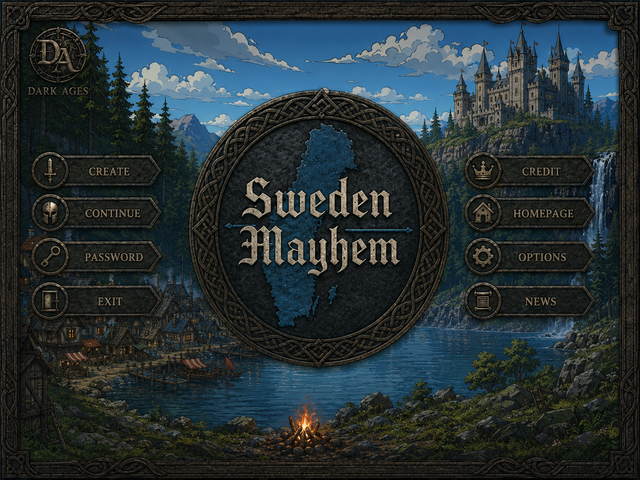
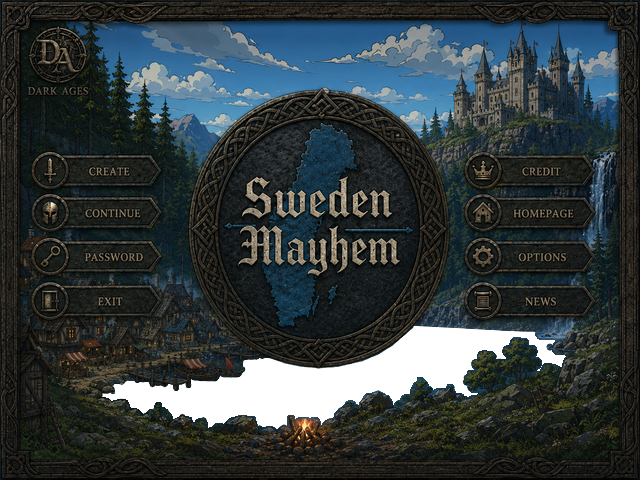
added: animated campfire and water to the main menu
added: animated water and campfire
added: ChaosGame.GameTime global for time access
added: UIAnimatedImage which that takes a texture of vertical animation frames and autoplays it

Changed region(s): [[0.1562, 0.6562, 0.875, 0.9062]]

diff --git a/Chaos.Client/Controls/Components/UIAnimatedImage.cs b/Chaos.Client/Controls/Components/UIAnimatedImage.cs
@@ -1,0 +1,67 @@
+#region
+using Microsoft.Xna.Framework;
+using Microsoft.Xna.Framework.Graphics;
+#endregion
+
+namespace Chaos.Client.Controls.Components;
+
+public class UIAnimatedImage : UIElement
+{
+    public Texture2D? Texture { get; set; }
+    public double FrameTime = 1000/24.0;
+    public int FrameHeight { get; set; }
+    public int FrameCount { get => Texture is null ? 1 : Texture.Height / FrameHeight; }
+
+    public static UIAnimatedImage CreateWithTexture(string name, Texture2D texture, int frameHeight)
+    {
+        return new UIAnimatedImage
+        {
+            Name = name,
+            X = 0,
+            Y = 0,
+            Texture = texture,
+            Width = texture?.Width ?? 0,
+            Height = texture?.Height ?? 0,
+            FrameHeight = frameHeight,
+        };
+
+    }
+
+    public override void Dispose()
+    {
+        Texture?.Dispose();
+        Texture = null;
+
+        base.Dispose();
+    }
+
+    public override void Draw(SpriteBatch spriteBatch)
+    {
+        if (!Visible)
+            return;
+
+        var frame = (int)(ChaosGame.GameTime.TotalGameTime.TotalMilliseconds / FrameTime) % FrameCount;
+
+        //always run base.Draw so ClipRect updates for hit-testing, even when Texture is null
+        //a textureless visible image still has bounds and may be hit-tested
+        base.Draw(spriteBatch);
+
+        if (Texture is null)
+            return;
+
+        spriteBatch.End();
+
+        spriteBatch.Begin(samplerState: GlobalSettings.Sampler, blendState: BlendState.NonPremultiplied);
+
+        DrawTexture(
+            spriteBatch,
+            Texture,
+            new Vector2(ScreenX, ScreenY),
+            new Rectangle(0, frame * FrameHeight, Texture.Width, FrameHeight),
+            Color.White);
+
+        spriteBatch.End();
+
+        spriteBatch.Begin(samplerState: GlobalSettings.Sampler);
+    }
+}

diff --git a/Chaos.Client/Controls/LobbyLogin/LobbyLoginControl.cs b/Chaos.Client/Controls/LobbyLogin/LobbyLoginControl.cs
@@ -16,6 +16,9 @@ namespace Chaos.Client.Controls.LobbyLogin;
 /// </summary>
 public sealed class LobbyLoginControl : UIPanel
 {
+	private readonly Effect BackgroundEffect;
+	private readonly EffectParameter BackgroundEffectTime;
+
 	private readonly Texture2D ButtonMaskPress;
 	private readonly Texture2D ButtonMaskHover;
 
@@ -28,6 +31,8 @@ public sealed class LobbyLoginControl : UIPanel
     public readonly UIButton OptionsButton;
     public readonly UIButton NewsButton;
 
+    public readonly UIAnimatedImage Campfire;
+
     public LobbyLoginControl()
     {
         Name = "StartScreen";
@@ -37,6 +42,15 @@ public sealed class LobbyLoginControl : UIPanel
         Height = ChaosGame.VIRTUAL_HEIGHT;
 
         Background = LoadTexture("da_login.png");
+        Campfire = UIAnimatedImage.CreateWithTexture("Campfire", LoadTexture("da_login_campfire.png"), 108);
+        Campfire.X = 254;
+        Campfire.Y = 353;
+        Campfire.FrameTime = 1000*5/60;
+        Campfire.IsHitTestVisible = false;
+        AddChild(Campfire);
+
+        BackgroundEffect = LoadEffect("loginBackground.mgfxo");
+        BackgroundEffectTime = BackgroundEffect.Parameters["Time"];
 
         var buttonHotspotArea = LoadTexture("da_login_button_mask.png");
         ButtonMaskPress = ImageUtil.BuildButtonMaskPressTint(ChaosGame.Device, buttonHotspotArea);
@@ -76,7 +90,18 @@ public sealed class LobbyLoginControl : UIPanel
 
         using var stream = assembly.GetManifestResourceStream(path) ?? throw new InvalidOperationException($"Embedded resource '{path}' not found");
 
-        return Texture2D.FromStream(ChaosGame.Device, stream);
+        return Texture2D.FromStream(ChaosGame.Device, stream, null);
+    }
+
+    private static Effect LoadEffect(String path)
+    {
+        var assembly = Assembly.GetExecutingAssembly();
+
+        using var stream = assembly.GetManifestResourceStream(path) ?? throw new InvalidOperationException($"Embedded resource '{path}' not found");
+        using var fxBuffer = new MemoryStream();
+        stream.CopyTo(fxBuffer);
+
+        return new Effect(ChaosGame.Device, fxBuffer.ToArray());
     }
 
     public void EnableButtons() => SetButtonsEnabled(true);
@@ -85,5 +110,21 @@ public sealed class LobbyLoginControl : UIPanel
     {
         foreach (var child in Children)
             child.Enabled = enabled;
+    }
+
+    public override void Draw(SpriteBatch spriteBatch)
+    {
+        if (!Visible)
+            return;
+
+        spriteBatch.End();
+        spriteBatch.Begin(samplerState: GlobalSettings.Sampler, effect: BackgroundEffect);
+
+        BackgroundEffectTime.SetValue((float)ChaosGame.GameTime.TotalGameTime.TotalSeconds);
+
+        base.Draw(spriteBatch);
+
+        spriteBatch.End();
+        spriteBatch.Begin(samplerState: GlobalSettings.Sampler);
     }
 }

diff --git a/Chaos.Client/ChaosGame.cs b/Chaos.Client/ChaosGame.cs
@@ -145,6 +145,11 @@ public sealed class ChaosGame : Game
 
     public static GraphicsDevice Device => TextureConverter.Device;
 
+    /// <summary>
+    ///     The game time as reported by the last Update().
+    /// </summary>
+    public static GameTime GameTime { get; private set; } = new GameTime();
+
     public ChaosGame()
     {
         //sdl by default is polling all possible input devices
@@ -1173,6 +1178,8 @@ public sealed class ChaosGame : Game
 
     protected override void Update(GameTime gameTime)
     {
+        ChaosGame.GameTime = gameTime;
+
         DebugOverlay.BeginFrame();
 
         //mouse coordinate transform. native-UI screens want the raw native pixel position (scale 1). Legacy screens